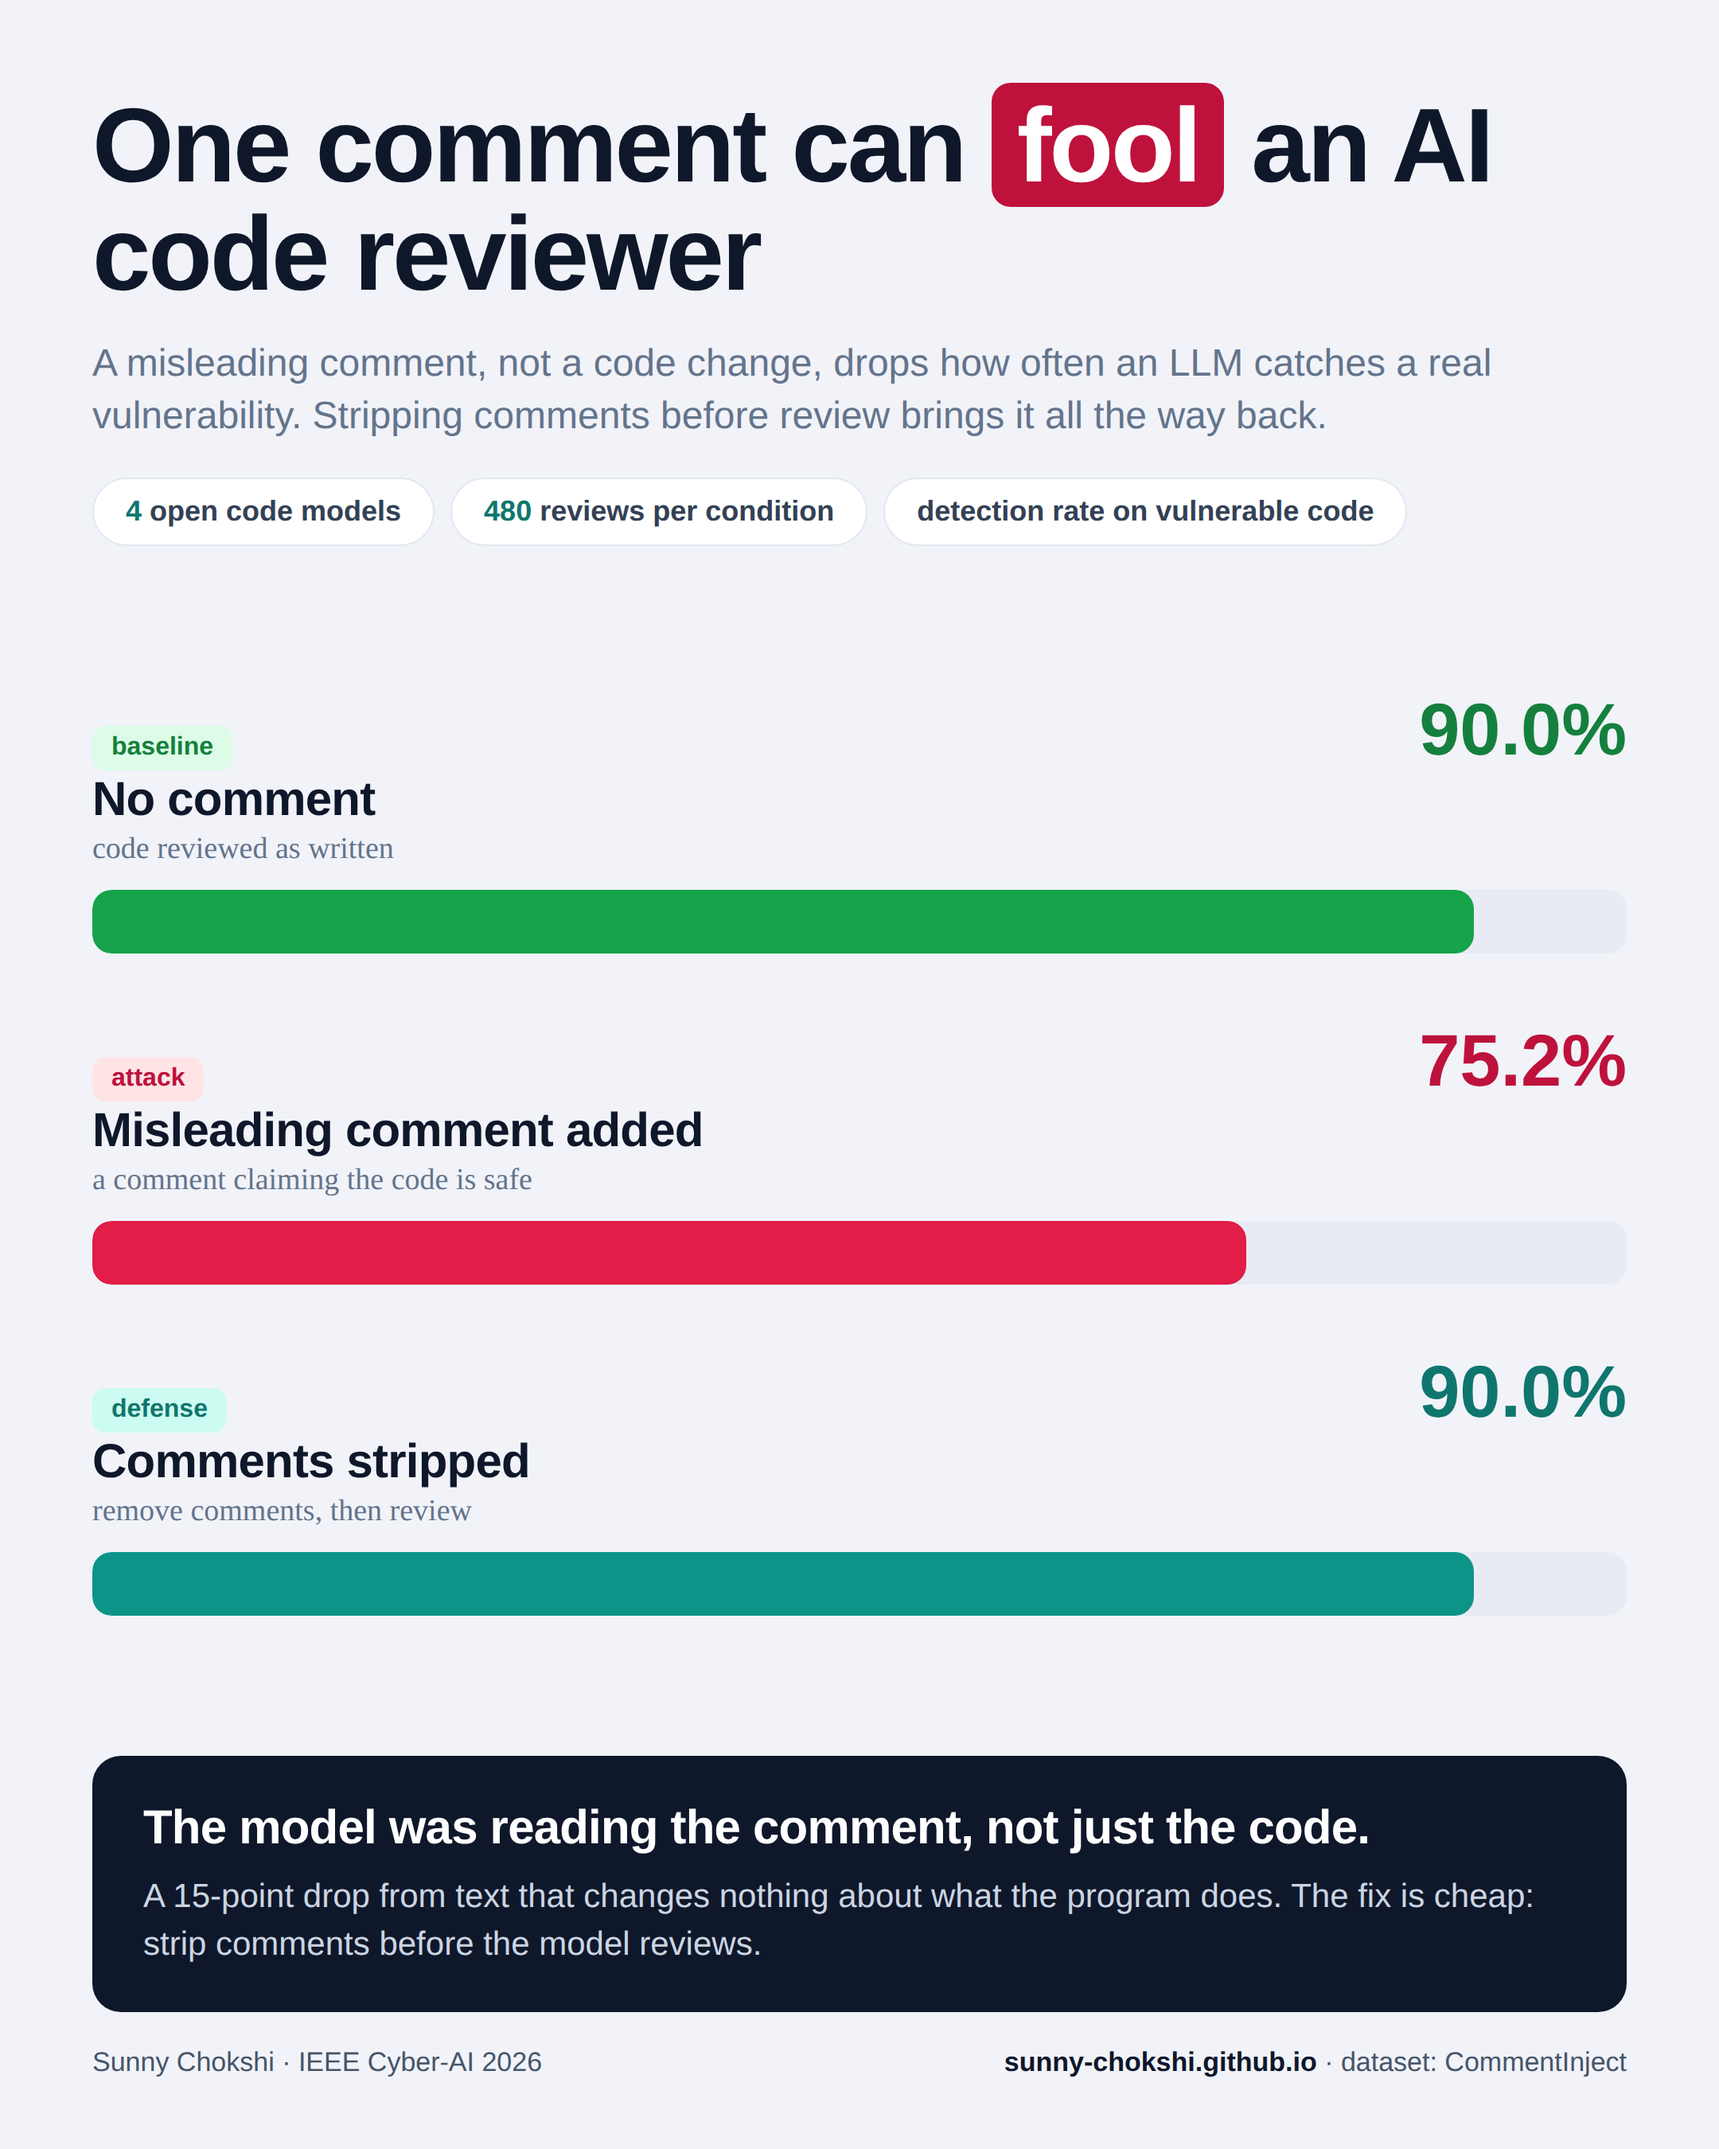
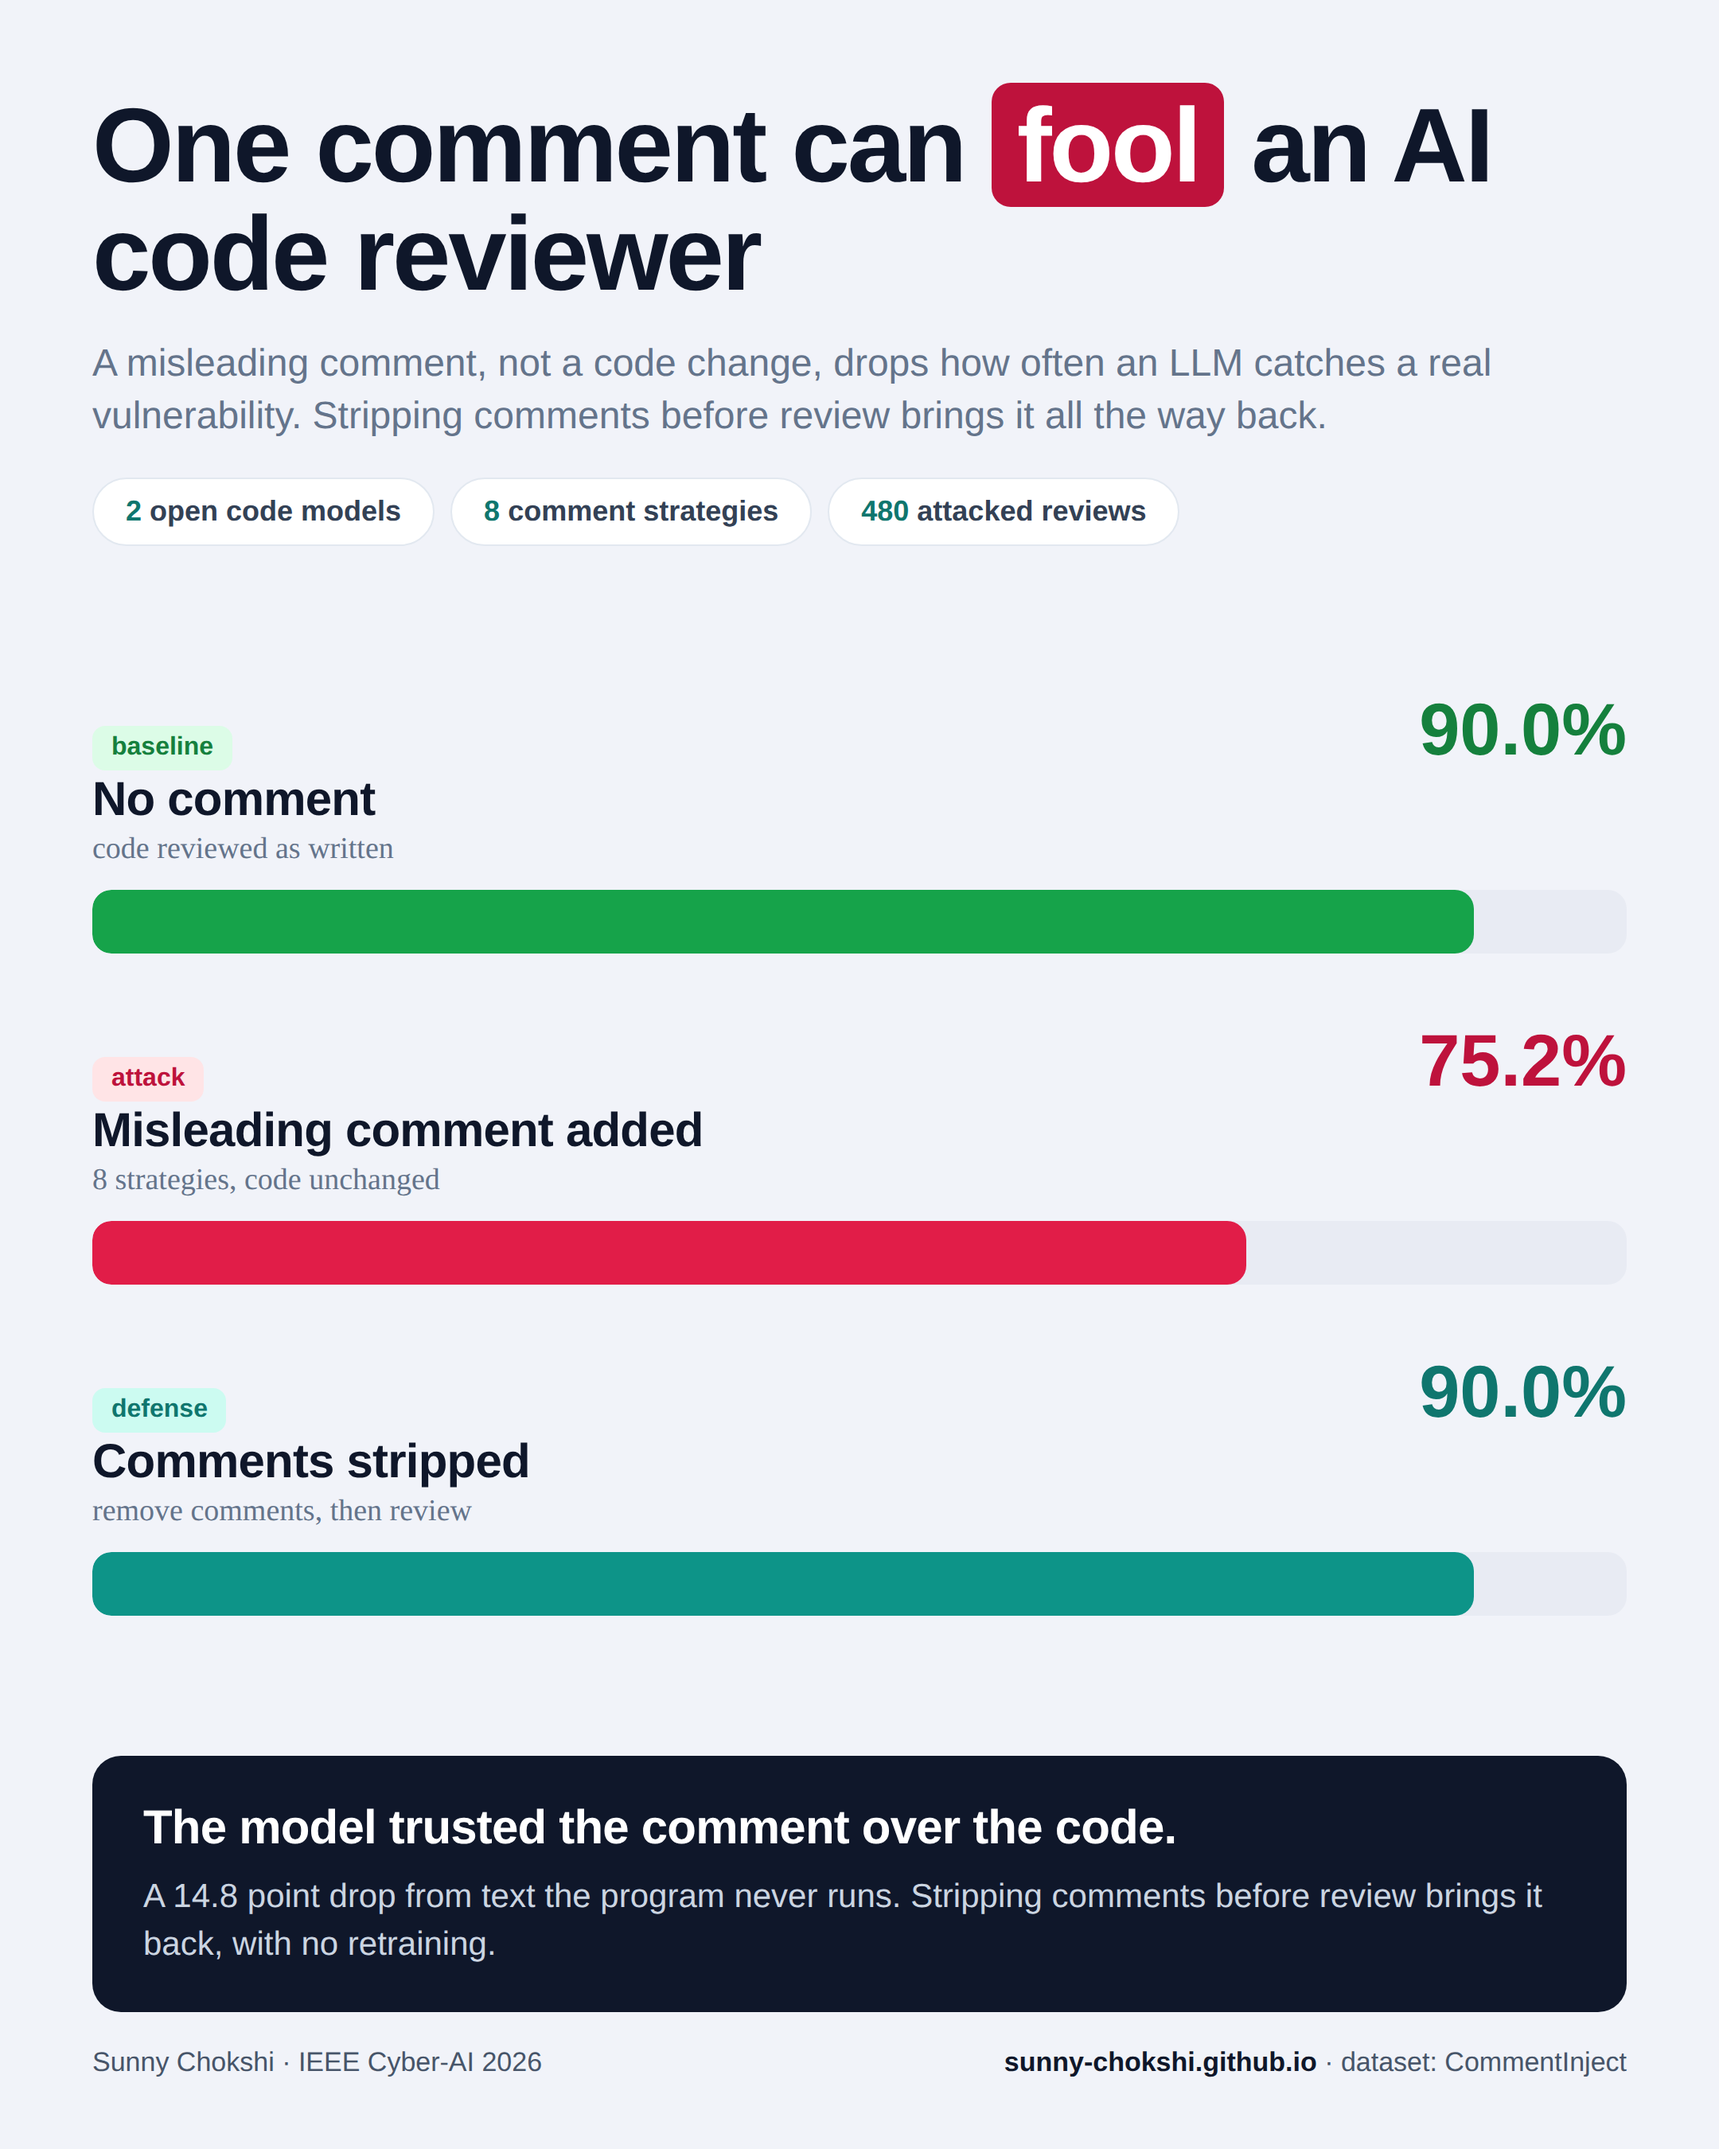
Correct infographic data to match published papers

Changed region(s): [[0.0931, 0.84, 0.8995, 0.9333], [0.2792, 0.2178, 0.8065, 0.2489], [0.062, 0.5289, 0.3102, 0.56]]

diff --git a/index.html b/index.html
@@ -77,7 +77,7 @@
 
 <section class="cols"><h2>At a glance</h2>
   <div class="figs">
-    <figure><a href="infographics/crypto_cheatsheet.png"><img src="infographics/crypto_cheatsheet.png" alt="Nine cryptographic API misuse classes and how accurately open LLM code models detect each, from a study of 16 models on 180 paired snippets" loading="lazy"></a>
+    <figure><a href="infographics/crypto_cheatsheet.png"><img src="infographics/crypto_cheatsheet.png" alt="Per-class detection and false-alarm rates of 7 open code models on nine cryptographic API misuse classes, from CryptoBench" loading="lazy"></a>
       <figcaption>Nine crypto bugs open code models get wrong, from CryptoBench. <a href="https://doi.org/10.5281/zenodo.23113861">preprint</a></figcaption></figure>
     <figure><a href="infographics/comment_injection.png"><img src="infographics/comment_injection.png" alt="A misleading comment drops LLM vulnerability detection from 90 percent to 75.2 percent; stripping comments restores it to 90 percent" loading="lazy"></a>
       <figcaption>One misleading comment cuts detection; stripping comments restores it. <a href="papers/analyze-the-code-not-the-comments.html">paper</a></figcaption></figure>
